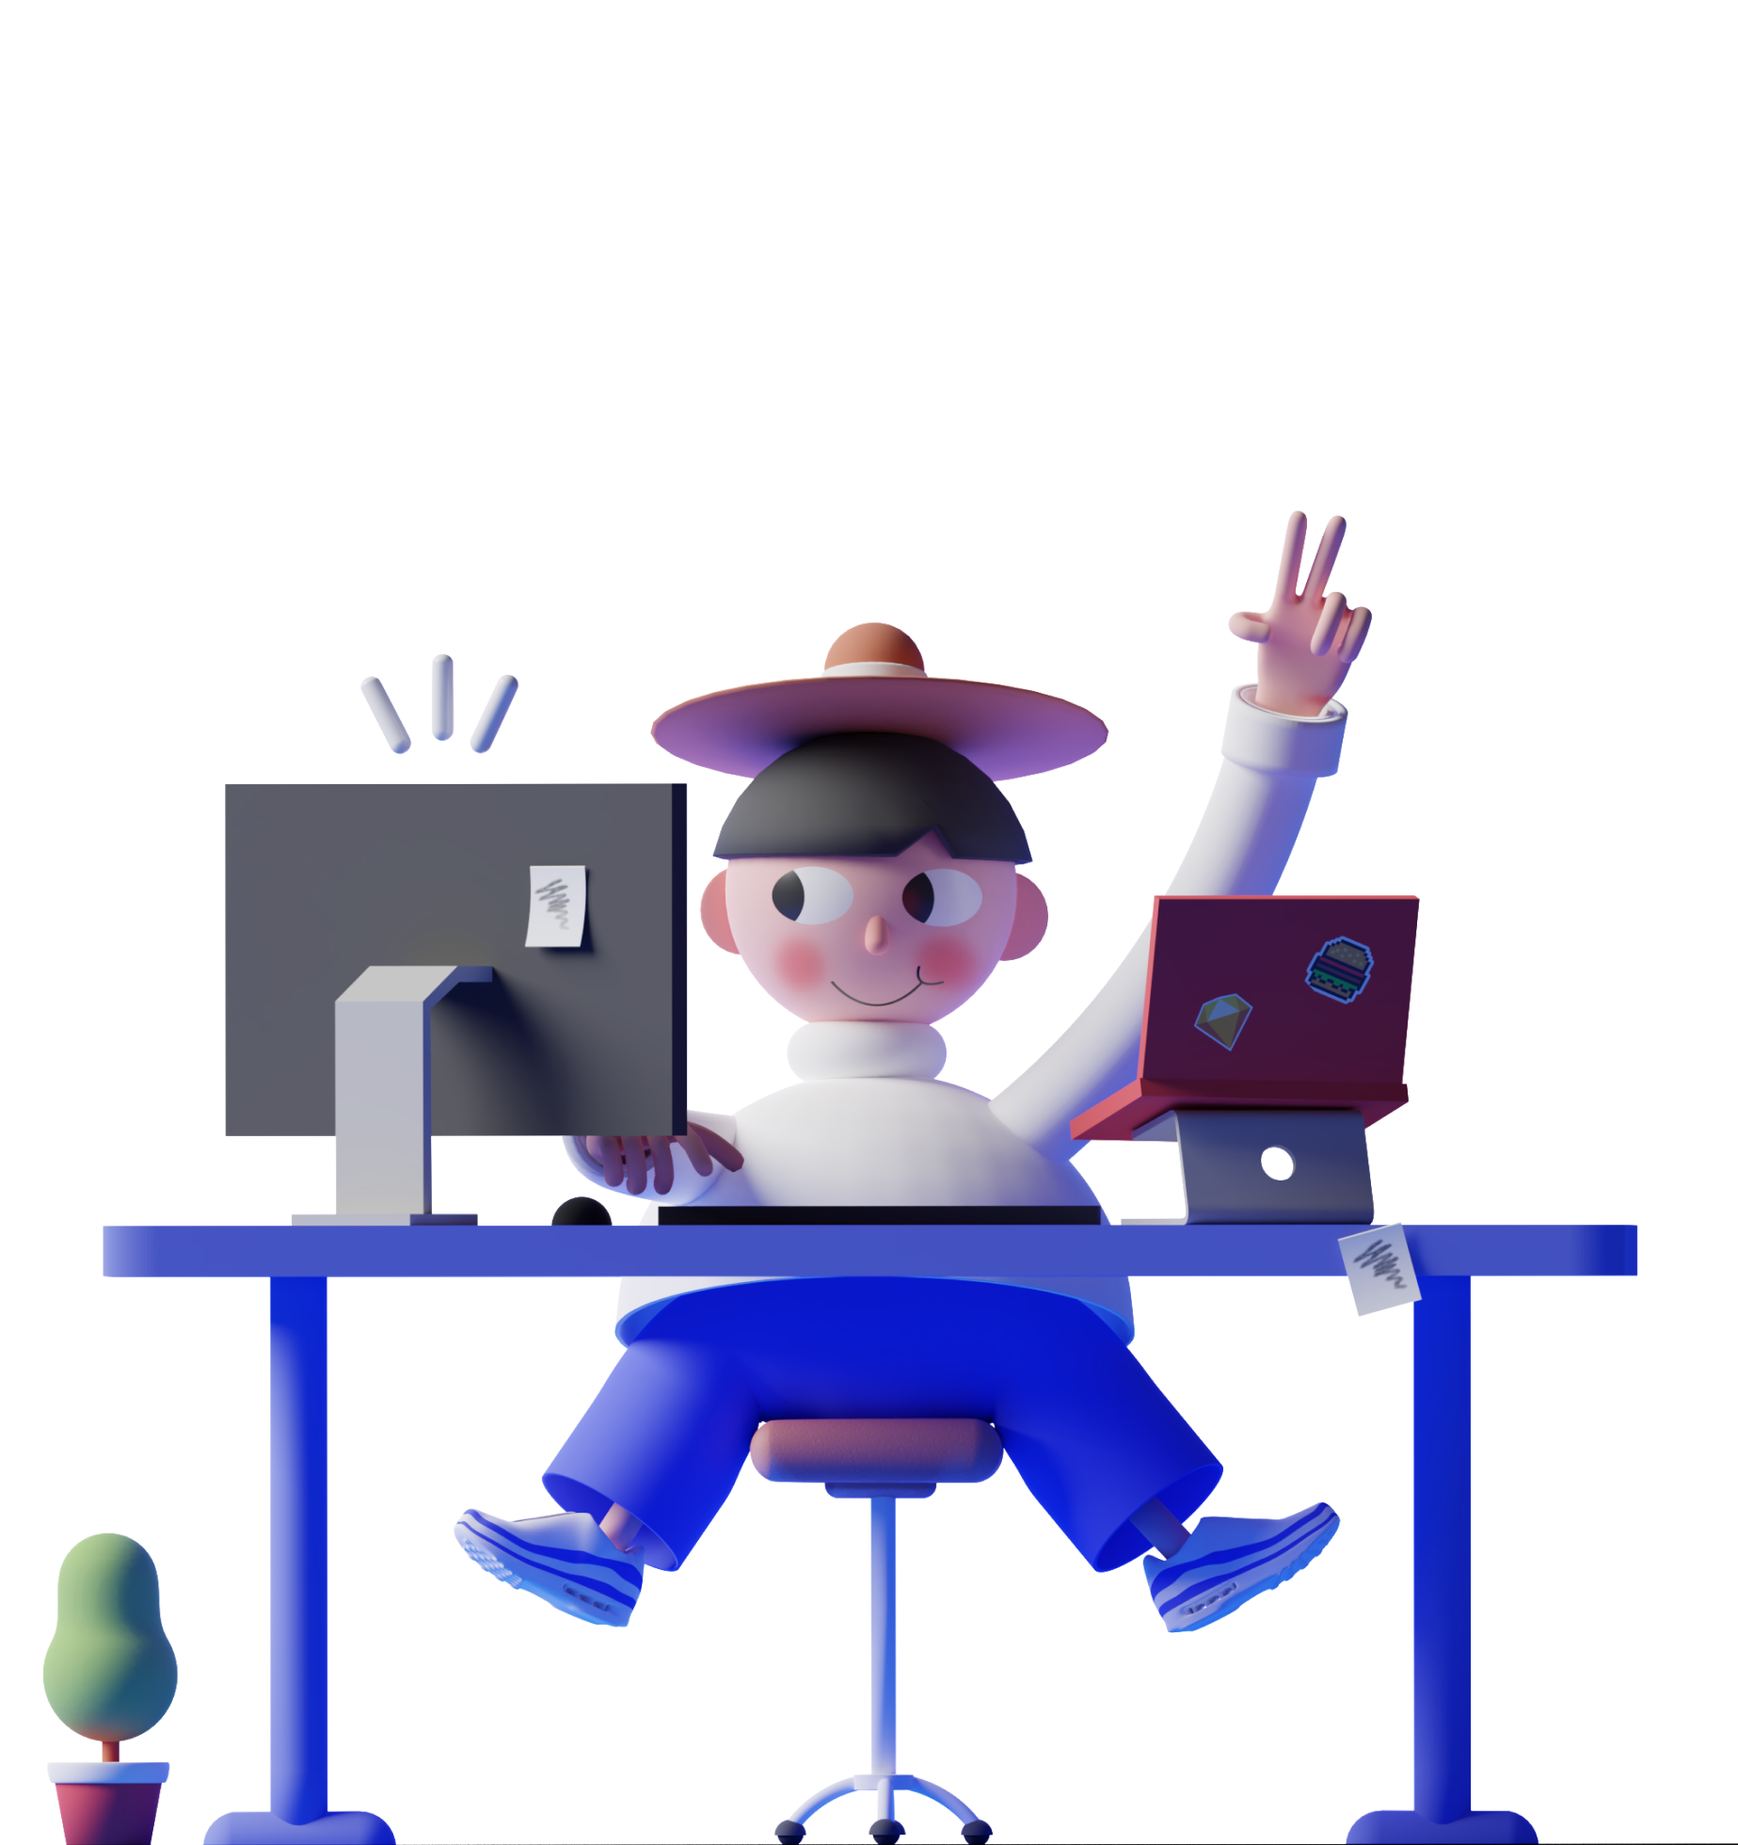
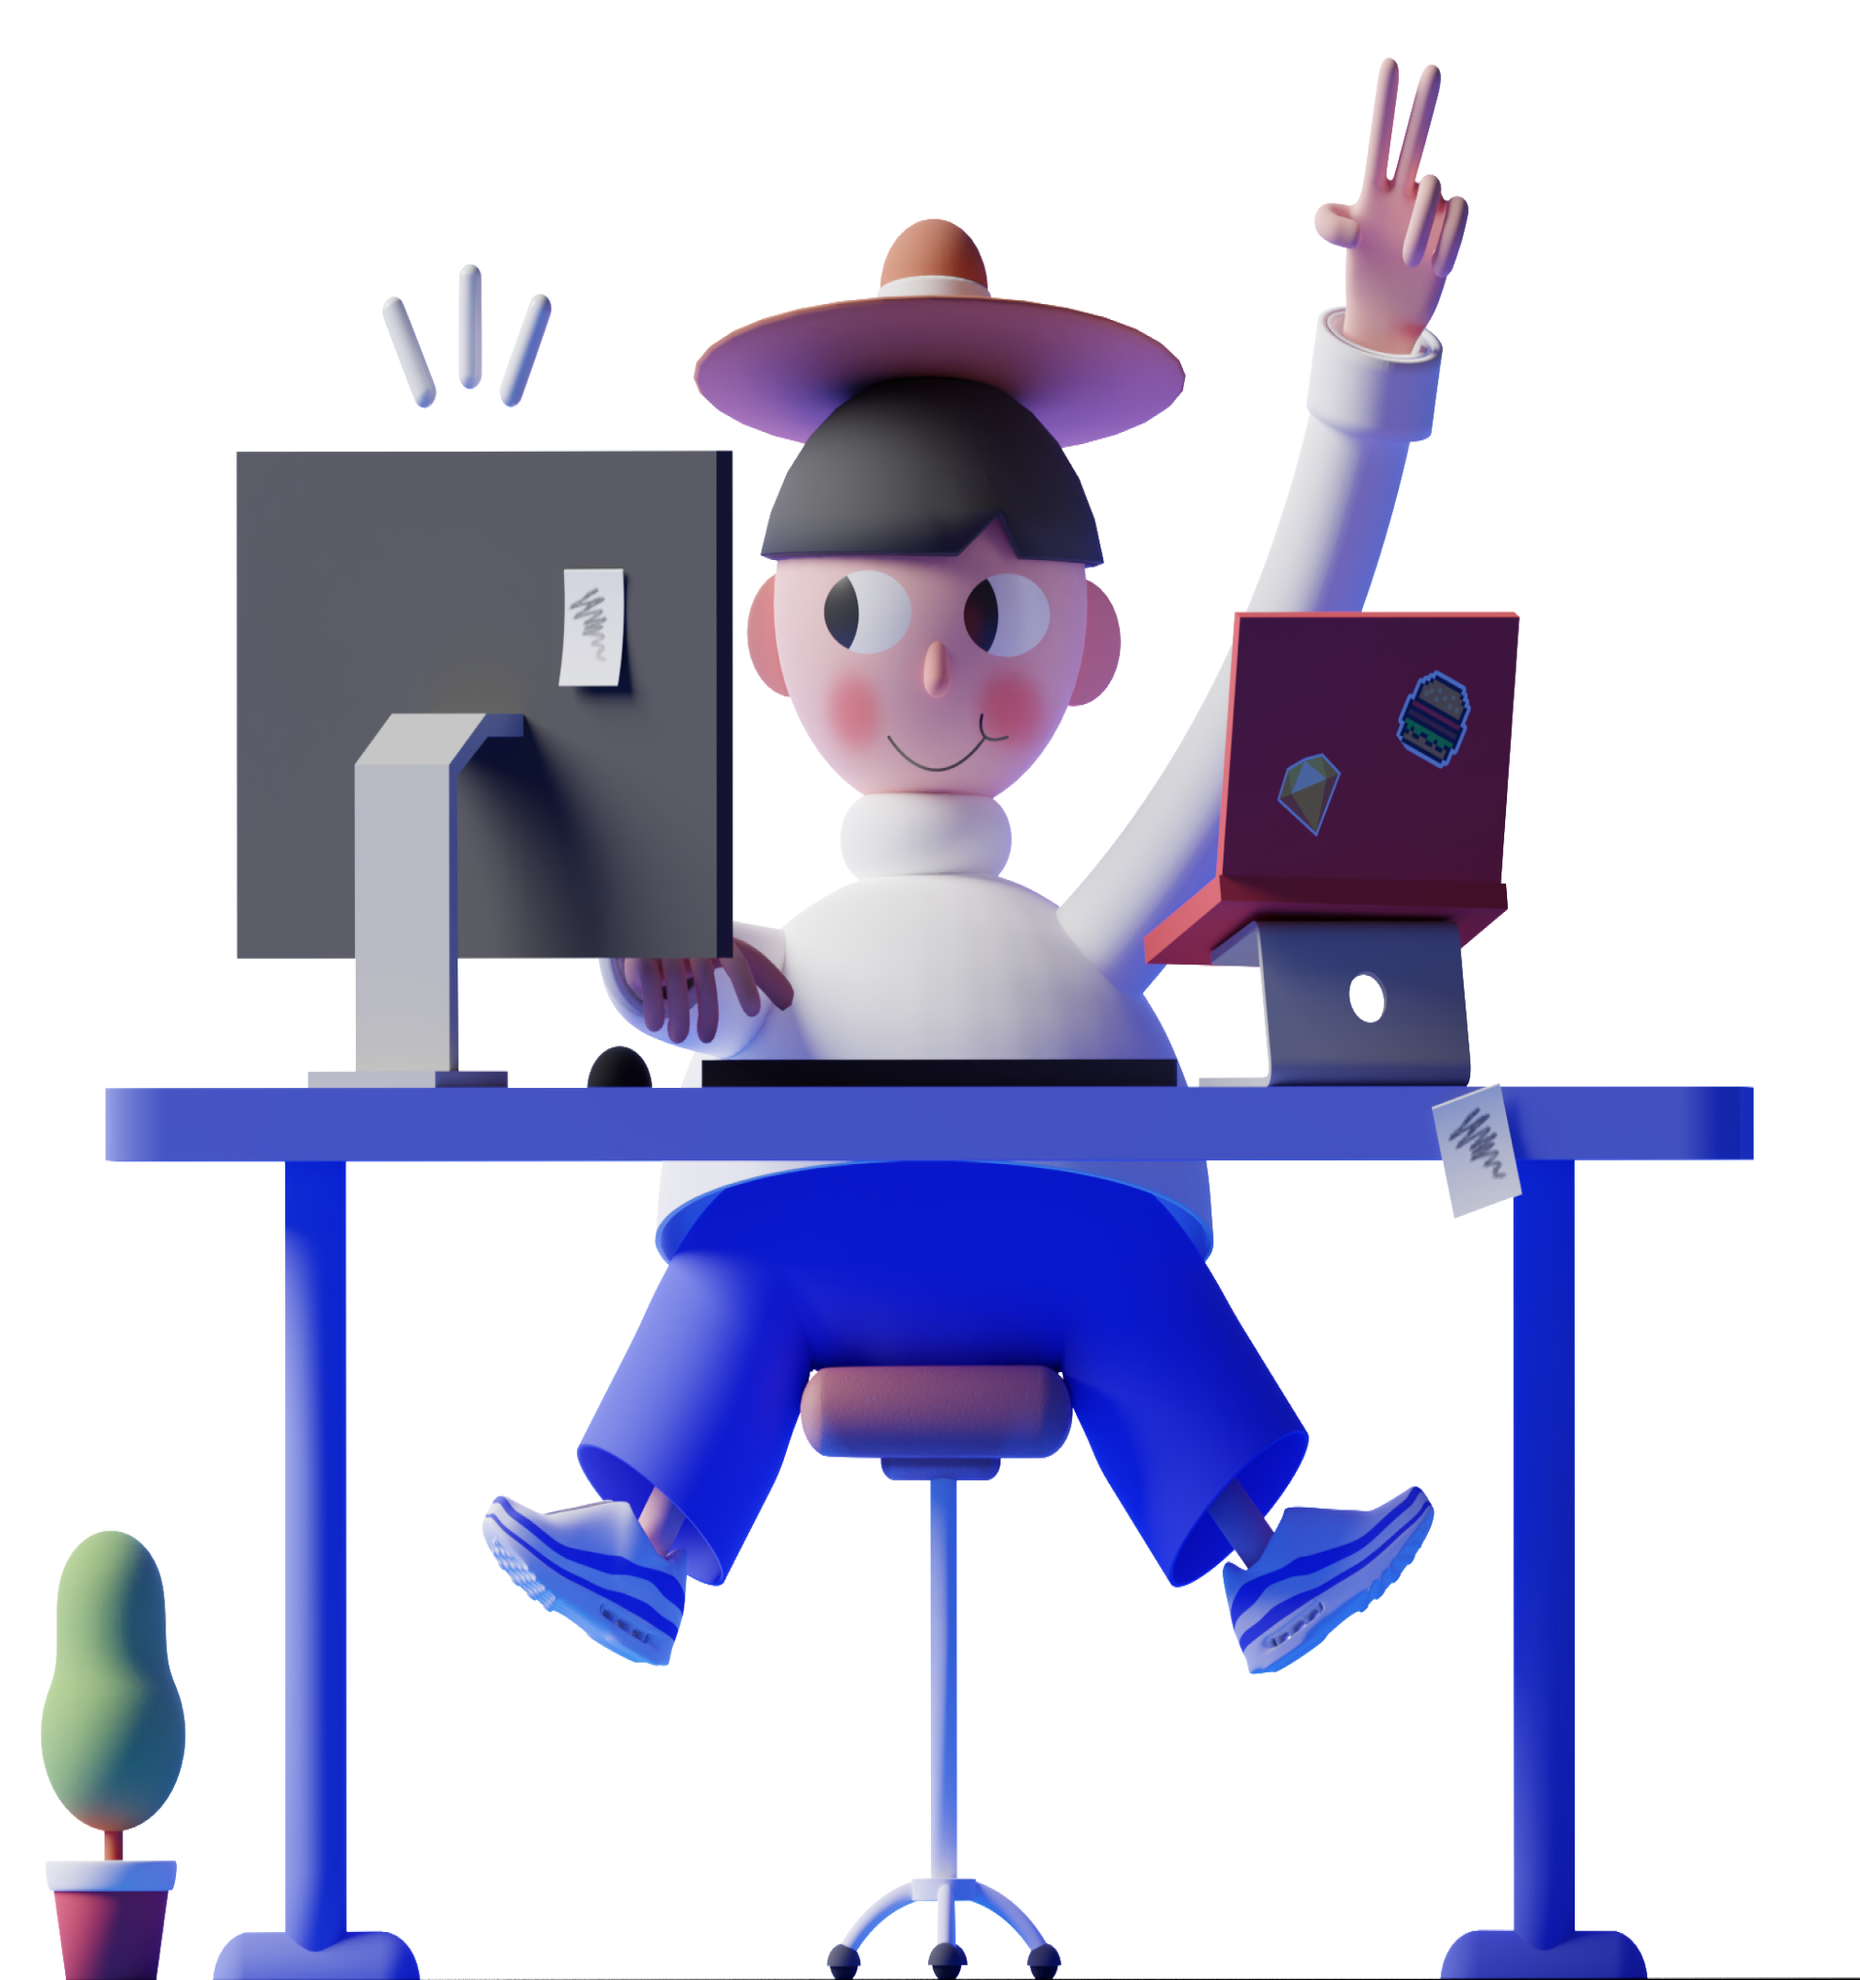
fix(mongol-api-web): fixed intro section image

diff --git a/apps/mongol-api-web/src/features/home/Intro.tsx b/apps/mongol-api-web/src/features/home/Intro.tsx
@@ -4,11 +4,21 @@ import Image from 'next/image';
 
 export const Intro = () => {
   return (
-    <Box bgcolor="primary.500" width="100vw" minHeight="calc(100vh - 77px)">
+    <Box bgcolor="primary.500" width="100vw" minHeight="calc(100vh - 60px)">
       <Container disableGutters sx={{ maxWidth: '1048px' }} maxWidth={false}>
-        <Stack minHeight="calc(100vh - 77px)" justifyContent="center">
-          <Stack direction="row">
-            <Stack direction="column" pt={25} pb={15} width="100%" mr={4}>
+        <Stack
+          minHeight="calc(100vh - 60px)"
+          justifyContent="center"
+          alignItems="center"
+        >
+          <Stack direction="row" height="526px">
+            <Stack
+              direction="column"
+              width="100%"
+              height="100%"
+              pt={13}
+              justifyContent="center"
+            >
               <Typography variant="h2" color="#F7F9FC" pb={8}>
                 Welcome to MongolAPI
               </Typography>
@@ -24,22 +34,12 @@ export const Intro = () => {
                 Senectus nunc risus sed nunc ultricies placerat proin. Ultricies
                 luctus vel tortor eu elementum vulputate cursus
               </Typography>
-              <Box width="176px" height="54px">
+              <Box width="176px">
                 <Button>Explore</Button>
               </Box>
             </Stack>
-            <Stack
-              width="100%"
-              maxWidth="460px"
-              height="490px"
-              position={'relative'}
-            >
-              <Image
-                style={{ marginBottom: '80px' }}
-                fill
-                src={`/images/home-intro-image.png`}
-                alt="picture"
-              />
+            <Stack width="100%" maxWidth="495px" position="relative">
+              <Image fill src={`/images/home-intro-image.png`} alt="picture" />
             </Stack>
           </Stack>
         </Stack>

diff --git a/apps/mongol-api-web/src/components/header/Header.tsx b/apps/mongol-api-web/src/components/header/Header.tsx
@@ -36,7 +36,9 @@ const HeaderLinks = ({ colorMode }: HeaderProps) => (
   <Stack direction={'row'} spacing={24}>
     <Link sx={{ cursor: 'pointer', textDecoration: 'none' }} href="/">
       <Typography
-        variant="subtitle1"
+        fontSize="16px"
+        fontWeight="400"
+        lineHeight="19.09px"
         color={colorMode === 'dark' ? 'common.white' : 'common.black'}
       >
         Home
@@ -44,7 +46,9 @@ const HeaderLinks = ({ colorMode }: HeaderProps) => (
     </Link>
     <Link sx={{ cursor: 'pointer', textDecoration: 'none' }} href="/docs">
       <Typography
-        variant="subtitle1"
+        fontSize="16px"
+        fontWeight="400"
+        lineHeight="19.09px"
         color={colorMode === 'dark' ? 'common.white' : 'common.black'}
       >
         Docs
@@ -56,7 +60,9 @@ const HeaderLinks = ({ colorMode }: HeaderProps) => (
       href="https://github.com/DuurenbayarUlz/mongol-api"
     >
       <Typography
-        variant="subtitle1"
+        fontSize="16px"
+        fontWeight="400"
+        lineHeight="19.09px"
         color={colorMode === 'dark' ? 'common.white' : 'common.black'}
       >
         GitHub
@@ -76,7 +82,7 @@ export const Header = ({ colorMode }: HeaderProps) => {
           direction="row"
           justifyContent="space-between"
           alignItems="center"
-          height="77px"
+          height="60px"
         >
           <LogoAndTitle colorMode={colorMode} />
           <HeaderLinks colorMode={colorMode} />

diff --git a/apps/mongol-api-web/src/components/button/Button.tsx b/apps/mongol-api-web/src/components/button/Button.tsx
@@ -1,39 +1,36 @@
+import { Typography } from '@mui/material';
 import MuiButton from '@mui/material/Button';
 import { styled } from '@mui/material/styles';
 
-export type ButtonSize = 'small' | 'medium';
 export interface BaseButtonProps {
   children: React.ReactNode;
-  size?: ButtonSize;
+
   fullWidth?: boolean;
   onClick?: () => void;
 }
 
-const StyledButton = styled(MuiButton)<BaseButtonProps>(({ theme, size }) => {
+const StyledButton = styled(MuiButton)<BaseButtonProps>(({ theme }) => {
   return {
-    borderRadius: theme.spacing(4),
+    borderRadius: theme.spacing(5),
     padding: `${theme.spacing(6)} ${theme.spacing(12)}`,
-    fontSize: theme.spacing(8),
-    fontWeight: 500,
-    lineHeight: 'normal',
     textTransform: 'none',
+    display: 'flex',
+    alignItems: 'center',
     color: '#fff',
     backgroundColor: '#00C0CC',
+    height: '54px',
     '&:hover': {
       backgroundColor: '#002762',
     },
-
-    ...(size === 'small' && {
-      padding: `${theme.spacing(3)} ${theme.spacing(6)}`,
-      fontSize: theme.spacing(6),
-    }),
   };
 });
 
 export const Button = ({ children, ...rest }: BaseButtonProps) => {
   return (
     <StyledButton disableRipple fullWidth {...rest}>
-      {children}
+      <Typography fontSize="24px" fontWeight="500" lineHeight="29.3px">
+        {children}
+      </Typography>
     </StyledButton>
   );
 };

diff --git a/apps/mongol-api-web/src/features/home/Example.tsx b/apps/mongol-api-web/src/features/home/Example.tsx
@@ -11,12 +11,13 @@ export const Example = () => {
     setOpen(!open);
   };
   return (
-    <Box bgcolor="common.white" width="100vw">
+    <Box bgcolor="common.white" width="100%">
       <Container disableGutters sx={{ maxWidth: '1048px' }} maxWidth={false}>
         <Stack
           direction="column"
-          py="100px"
-          minHeight="100vh"
+          pt="100px"
+          pb={open ? '50px' : '100px'}
+          minHeight="100%"
           alignItems="center"
           maxWidth="1048px"
         >
@@ -30,7 +31,7 @@ export const Example = () => {
           <Stack minWidth="100%" spacing={6}>
             <CodeSnippet value={ClothesDocsData.rest.query} maxWidth="1048px" />
             <Stack alignItems="flex-start" style={{ width: '228px' }}>
-              <Button onClick={handleTryButton} size="small">
+              <Button onClick={handleTryButton}>
                 {open ? 'You Got It!' : 'Try Here!'}
               </Button>
             </Stack>
